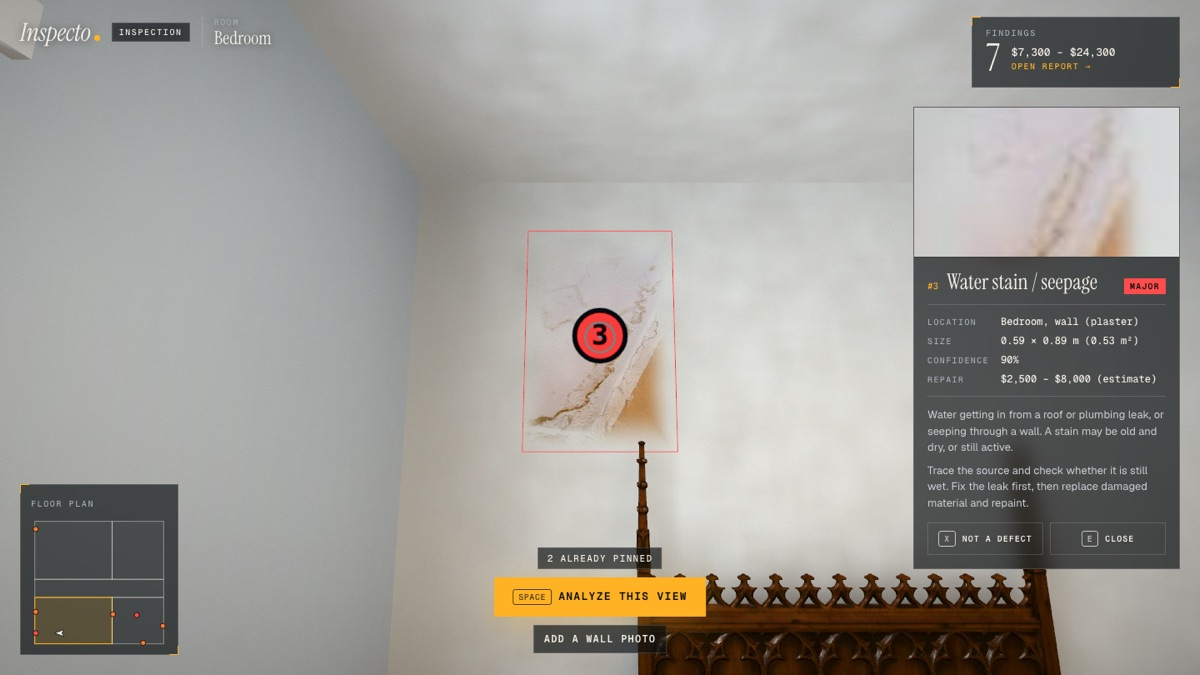
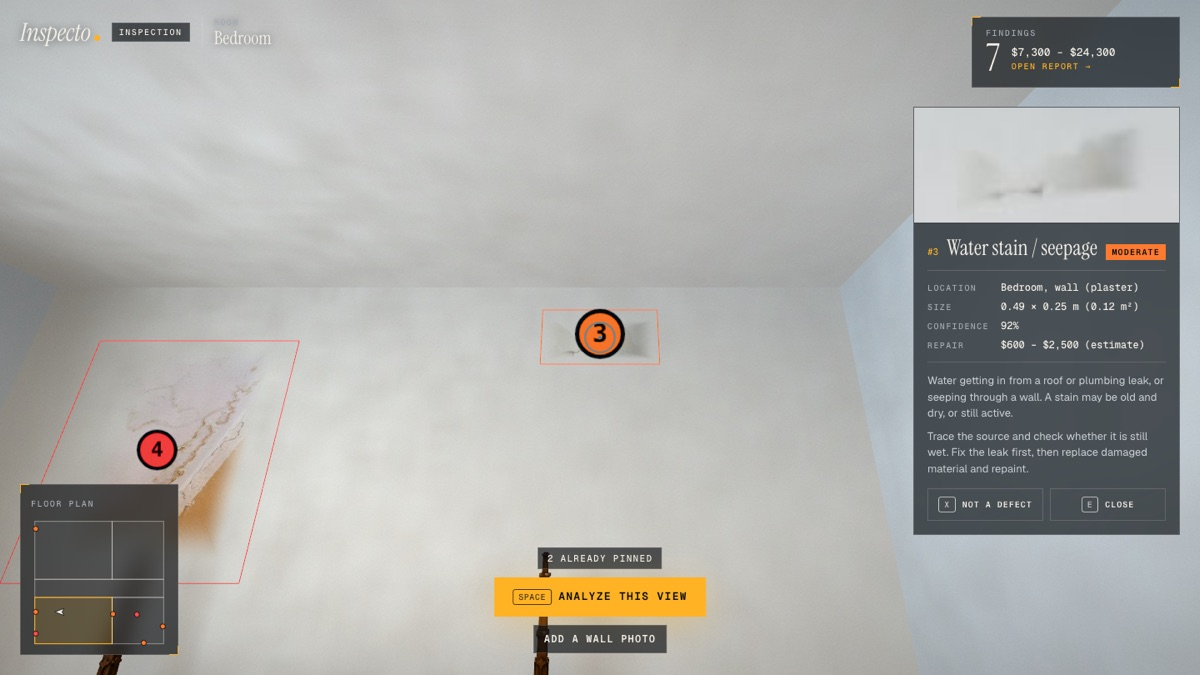
README: screenshots from a real detector run; in-app scores re-measured with the released 7-class model

diff --git a/README.md b/README.md
@@ -14,7 +14,9 @@ not connected there yet, so photo analysis, floor plans and saved inspections ne
 
 ![Walking the demo apartment](docs/living.jpg)
 
-![A finding pinned on a bedroom wall, with its size and repair estimate](docs/finding.jpg)
+![A water stain the detector found on a bedroom wall (92% confidence), pinned in 3D with its size and repair estimate](docs/finding.jpg)
+
+*Both screenshots are from a real run: every pin was placed by the trained detector, not by hand.*
 
 ## What you can do with it
 
@@ -66,11 +68,11 @@ Both servers must be running. Tests drive a real browser and the real detector.
 
 | Test set | Precision | Recall |
 |---|---|---|
-| Rendered inspection views inside the 3D apartment | 88% | 85% |
+| Rendered inspection views inside the 3D apartment (3 homes, 67 planted defects) | 90% | 81% |
 | Real photos never seen in training (original dataset, 225 photos) | 95% | 89% |
 | Harder real photos from eight other datasets (784 photos) | 61% | 31% |
 
-Confidence threshold 0.4, IoU 0.5. The first row flatters the model, because those views reuse
+All rows use the released model ([`detector.pth`](https://github.com/Ekagraj/Inspecto/releases/tag/model-v1), seven damage types). Confidence threshold 0.4, IoU 0.5. The first row flatters the model, because those views reuse
 training images. The last row is the real gap: mold and water stains are often confused with
 each other, and scuffs and holes have little training data.
 
